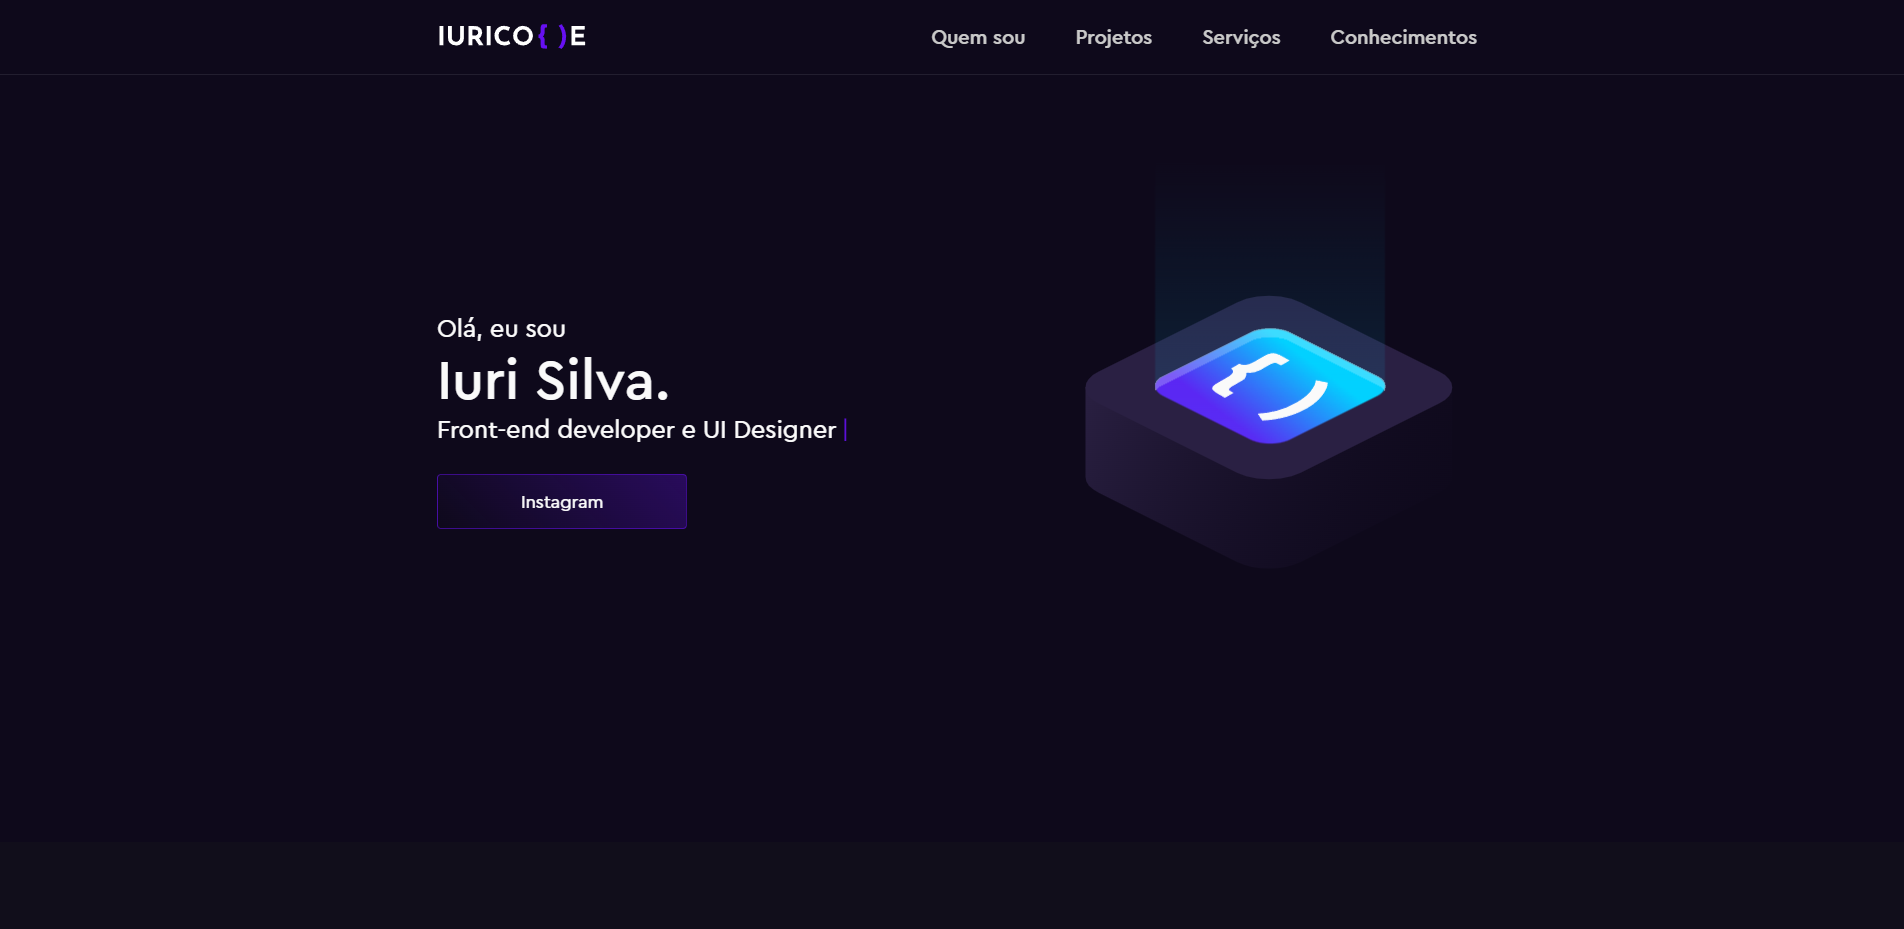
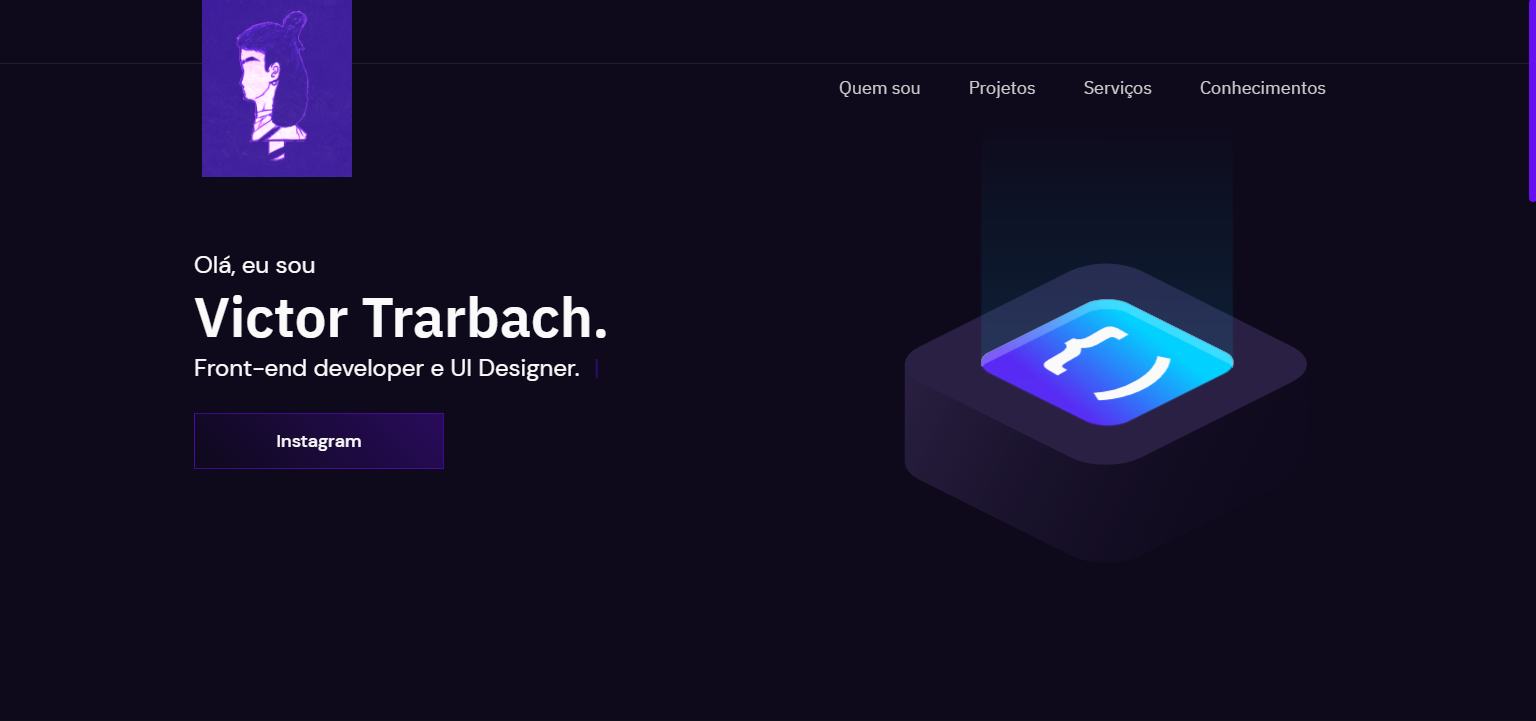
terceiro commit Portfolio

diff --git a/index.html b/index.html
@@ -304,7 +304,7 @@
                 height="400px"
                 alt="ilustração do VTN"
                 class="delayMediumReveal"
-                id="photo-iuricode"
+                id="photo-vtndev"
               />
               <div class="about-figure figure-one icon-one delayExtraBigReveal">
                 <img

diff --git a/assets/scss/_about.scss b/assets/scss/_about.scss
@@ -11,7 +11,7 @@
       @include flexbox-center;
       position: relative;
       transition: 1s all ease;
-      #photo-iuricode {
+      #photo-vtndev{
         width: 400px;
       }
       &:hover {

diff --git a/README.md b/README.md
@@ -8,7 +8,7 @@
 
 ![Resultado final do projeto](assets/image/preview.png)
 
-<h4 align="center"><a href="https://www.iuricode.com/">Clique para visitar o projeto</a></h4>
+<h4 align="center"><a href="">Clique para visitar o projeto</a></h4>
 
 ## 📚 Seções
 O site é composto por 5 seções diferentes:
@@ -35,10 +35,10 @@ Para o desenvolvimento deste site utilizei as seguintes tecnologias:
 <table>
   <tr>
     <td align="center">
-      <a href="https://github.com/iuricode">
-        <img src="https://avatars3.githubusercontent.com/u/31936044" width="100px;" alt="Foto do Iuri Silva no GitHub"/><br>
+      <a href="https://github.com/VTNSCC">
+        <img src="https://avatars.githubusercontent.com/u/37680210?v=4" width="100px;" alt="Foto do Victor Trarbach no GitHub"/><br>
         <sub>
-          <b>Iuri Silva</b>
+          <b>Victor Trarbach</b>
         </sub>
       </a>
     </td>
